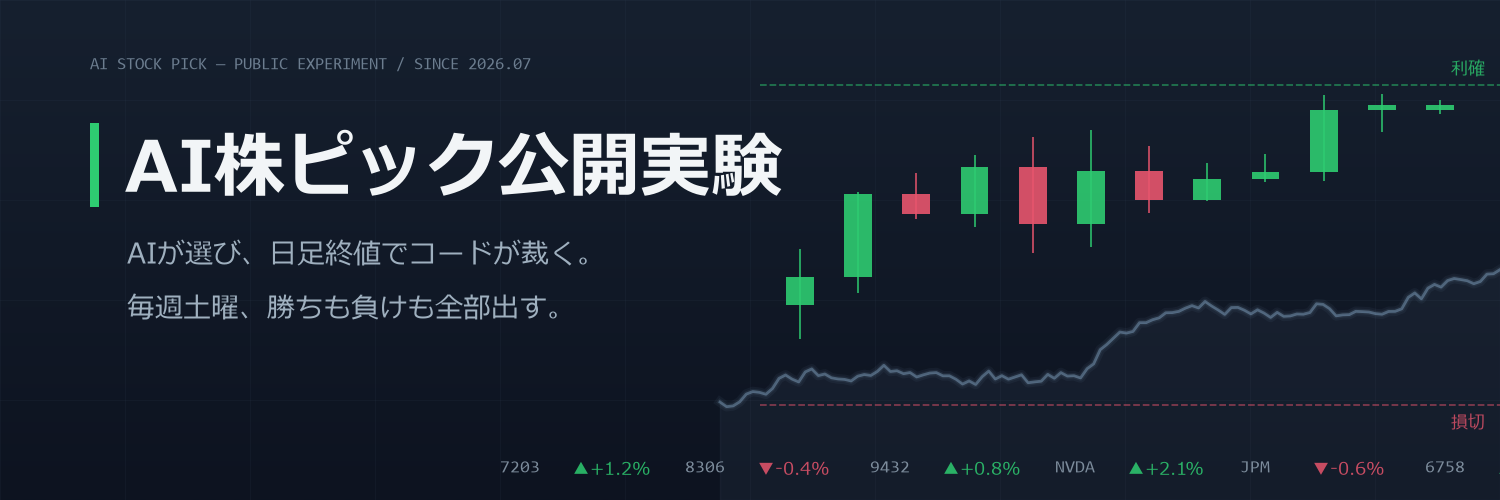
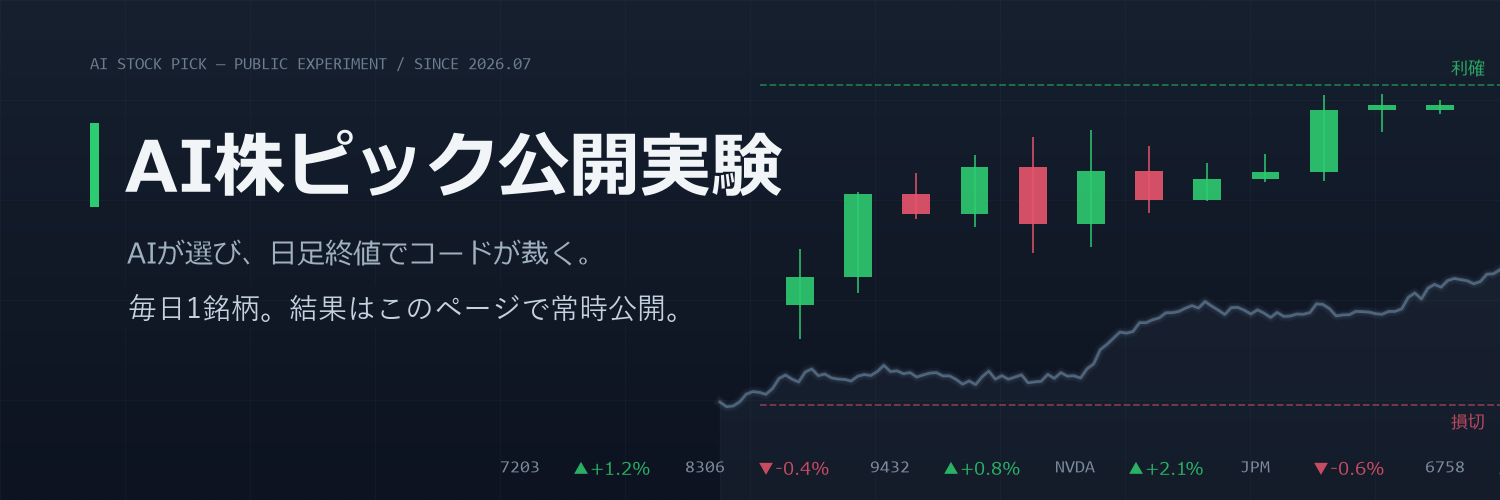
auto update

Changed region(s): [[0.0613, 0.57, 0.46, 0.66]]

diff --git a/index.html b/index.html
@@ -86,13 +86,13 @@ a { color:var(--blue); }
 <div class="wrap">
 <div class="topbar">
   <div class="brand">AI STOCK PICK — PUBLIC EXPERIMENT</div>
-  <div class="updated">最終更新: 2026-07-29 20:16（日本時間）｜picks.csvから自動生成・手作業による編集なし</div>
+  <div class="updated">最終更新: 2026-07-29 21:47（日本時間）｜picks.csvから自動生成・手作業による編集なし</div>
 </div>
 <div class="hero"><img src="hero.png" alt="AI株ピック公開実験"></div>
 
 <section>
   <h2>累計成績</h2>
-  <div class="cards"><div class="card "><div class="num">35</div><div class="lbl">総ピック数</div></div><div class="card win"><div class="num">4</div><div class="lbl">利確</div></div><div class="card lose"><div class="num">2</div><div class="lbl">損切</div></div><div class="card open"><div class="num">14</div><div class="lbl">建玉中</div></div><div class="card "><div class="num">10</div><div class="lbl">監視中</div></div></div><div class="cards big"><div class="card win"><div class="num">67%</div><div class="lbl">勝率（決着分）</div></div><div class="card win"><div class="num">+4.3%</div><div class="lbl">平均損益（決着分）</div></div></div><div class="panel" style="text-align:center;margin-top:12px"><div style="color:var(--sub);font-size:.85rem">総合損益（実現＋含み）</div><div style="font-size:2.6rem;font-weight:bold;color:#2ecc71;line-height:1.25">+207,069円 <span style="font-size:1.4rem">（+3.6%）</span></div><div style="color:var(--sub);font-size:.92rem;margin-top:4px">投資額 5,785,082円 → 評価額 5,992,151円</div><div style="border-top:1px solid var(--line);margin:16px auto;max-width:520px"></div><div style="display:flex;gap:22px;justify-content:center;flex-wrap:wrap"><div style="font-size:.95rem">実現損益（決着6件）：<b style="color:#2ecc71">+46,676円（+2.0%）</b></div><div style="font-size:.95rem">含み損益（建玉14件）：<b style="color:#2ecc71">+160,393円（+4.6%）</b></div></div><div style="color:var(--sub);font-size:.85rem;margin-top:8px">現在の建玉：14件・保有額 3,502,596円 → 評価額 3,662,989円（今この実験を追うのに必要な資金の目安）</div><div style="border-top:1px solid var(--line);margin:16px auto;max-width:520px"></div><div style="color:var(--sub);font-size:.8rem;margin-bottom:6px">市場別</div><div style="display:flex;gap:22px;justify-content:center;flex-wrap:wrap;margin-top:8px"><div style="font-size:.95rem">日本株（11件）： 実現 <b style="color:#2ecc71">+34,400円（+1.6%）</b> ／ 含み <b style="color:#2ecc71">+146,700円（+4.8%）</b><div style="color:var(--sub);font-size:.82rem;margin-top:2px">現在保有 3,080,000円 → 評価額 3,226,700円</div></div><div style="font-size:.95rem">米国株（9件）： 実現 <b style="color:#2ecc71">+12,276円（+12.6%）</b> ／ 含み <b style="color:#2ecc71">+13,693円（+3.2%）</b><div style="color:var(--sub);font-size:.82rem;margin-top:2px">現在保有 422,596円 → 評価額 436,289円</div></div></div><div class="hint" style="margin-top:14px">各銘柄1単元ずつ買った想定（単元株数は銘柄により異なる）・米国株は当日レート(163.7円)で円換算。為替損益は含まない。</div></div>
+  <div class="cards"><div class="card "><div class="num">35</div><div class="lbl">総ピック数</div></div><div class="card win"><div class="num">4</div><div class="lbl">利確</div></div><div class="card lose"><div class="num">2</div><div class="lbl">損切</div></div><div class="card open"><div class="num">14</div><div class="lbl">建玉中</div></div><div class="card "><div class="num">10</div><div class="lbl">監視中</div></div></div><div class="cards big"><div class="card win"><div class="num">67%</div><div class="lbl">勝率（決着分）</div></div><div class="card win"><div class="num">+4.3%</div><div class="lbl">平均損益（決着分）</div></div></div><div class="panel" style="text-align:center;margin-top:12px"><div style="color:var(--sub);font-size:.85rem">総合損益（実現＋含み）</div><div style="font-size:2.6rem;font-weight:bold;color:#2ecc71;line-height:1.25">+207,083円 <span style="font-size:1.4rem">（+3.6%）</span></div><div style="color:var(--sub);font-size:.92rem;margin-top:4px">投資額 5,785,381円 → 評価額 5,992,465円</div><div style="border-top:1px solid var(--line);margin:16px auto;max-width:520px"></div><div style="display:flex;gap:22px;justify-content:center;flex-wrap:wrap"><div style="font-size:.95rem">実現損益（決着6件）：<b style="color:#2ecc71">+46,683円（+2.0%）</b></div><div style="font-size:.95rem">含み損益（建玉14件）：<b style="color:#2ecc71">+160,401円（+4.6%）</b></div></div><div style="color:var(--sub);font-size:.85rem;margin-top:8px">現在の建玉：14件・保有額 3,502,839円 → 評価額 3,663,240円（今この実験を追うのに必要な資金の目安）</div><div style="border-top:1px solid var(--line);margin:16px auto;max-width:520px"></div><div style="color:var(--sub);font-size:.8rem;margin-bottom:6px">市場別</div><div style="display:flex;gap:22px;justify-content:center;flex-wrap:wrap;margin-top:8px"><div style="font-size:.95rem">日本株（11件）： 実現 <b style="color:#2ecc71">+34,400円（+1.6%）</b> ／ 含み <b style="color:#2ecc71">+146,700円（+4.8%）</b><div style="color:var(--sub);font-size:.82rem;margin-top:2px">現在保有 3,080,000円 → 評価額 3,226,700円</div></div><div style="font-size:.95rem">米国株（9件）： 実現 <b style="color:#2ecc71">+12,283円（+12.6%）</b> ／ 含み <b style="color:#2ecc71">+13,701円（+3.2%）</b><div style="color:var(--sub);font-size:.82rem;margin-top:2px">現在保有 422,839円 → 評価額 436,540円</div></div></div><div class="hint" style="margin-top:14px">各銘柄1単元ずつ買った想定（単元株数は銘柄により異なる）・米国株は当日レート(163.8円)で円換算。為替損益は含まない。</div></div>
 </section>
 
 <section><h2>建玉中の含み損益</h2><div class="panel"><svg viewBox="0 0 680 428" width="100%" xmlns="http://www.w3.org/2000/svg" style="max-width:680px"><line x1="447.5" y1="0" x2="447.5" y2="428" stroke="#243244" stroke-width="1"/><text x="6" y="23" fill="#8fa0b0" font-size="12" font-family="Meiryo,sans-serif">三菱地所（8802.T）</text><rect x="447.5" y="11" width="1.0" height="15" rx="4" fill="#2ecc71" opacity="0.9"/><text x="455.5" y="23" fill="#2ecc71" font-size="12.5" font-family="Meiryo,sans-serif" text-anchor="start">+0.0%</text><text x="6" y="53" fill="#8fa0b0" font-size="12" font-family="Meiryo,sans-serif">セコム（9735.T）</text><rect x="447.5" y="41" width="99.4" height="15" rx="4" fill="#2ecc71" opacity="0.9"/><text x="554.9" y="53" fill="#2ecc71" font-size="12.5" font-family="Meiryo,sans-serif" text-anchor="start">+4.9%</text><text x="6" y="83" fill="#8fa0b0" font-size="12" font-family="Meiryo,sans-serif">McDonald&#x27;s（MCD）</text><rect x="447.5" y="71" width="78.0" height="15" rx="4" fill="#2ecc71" opacity="0.9"/><text x="533.5" y="83" fill="#2ecc71" font-size="12.5" font-family="Meiryo,sans-serif" text-anchor="start">+3.8%</text><text x="6" y="113" fill="#8fa0b0" font-size="12" font-family="Meiryo,sans-serif">Costco Wholesale（COST）</text><rect x="447.5" y="101" width="80.5" height="15" rx="4" fill="#2ecc71" opacity="0.9"/><text x="536.0" y="113" fill="#2ecc71" font-size="12.5" font-family="Meiryo,sans-serif" text-anchor="start">+3.9%</text><text x="6" y="143" fill="#8fa0b0" font-size="12" font-family="Meiryo,sans-serif">Cisco Systems（CSCO）</text><rect x="447.5" y="131" width="66.6" height="15" rx="4" fill="#2ecc71" opacity="0.9"/><text x="522.1" y="143" fill="#2ecc71" font-size="12.5" font-family="Meiryo,sans-serif" text-anchor="start">+3.3%</text><text x="6" y="173" fill="#8fa0b0" font-size="12" font-family="Meiryo,sans-serif">Southern Company（SO）</text><rect x="447.5" y="161" width="16.6" height="15" rx="4" fill="#2ecc71" opacity="0.9"/><text x="472.1" y="173" fill="#2ecc71" font-size="12.5" font-family="Meiryo,sans-serif" text-anchor="start">+0.8%</text><text x="6" y="203" fill="#8fa0b0" font-size="12" font-family="Meiryo,sans-serif">Berkshire Hathaway（BRK-B）</text><rect x="447.5" y="191" width="93.5" height="15" rx="4" fill="#2ecc71" opacity="0.9"/><text x="549.0" y="203" fill="#2ecc71" font-size="12.5" font-family="Meiryo,sans-serif" text-anchor="start">+4.6%</text><text x="6" y="233" fill="#8fa0b0" font-size="12" font-family="Meiryo,sans-serif">東京海上ホールディングス（8766.T）</text><rect x="447.5" y="221" width="114.1" height="15" rx="4" fill="#2ecc71" opacity="0.9"/><text x="569.6" y="233" fill="#2ecc71" font-size="12.5" font-family="Meiryo,sans-serif" text-anchor="start">+5.6%</text><text x="6" y="263" fill="#8fa0b0" font-size="12" font-family="Meiryo,sans-serif">武田薬品工業（4502.T）</text><rect x="447.5" y="251" width="117.3" height="15" rx="4" fill="#2ecc71" opacity="0.9"/><text x="572.8" y="263" fill="#2ecc71" font-size="12.5" font-family="Meiryo,sans-serif" text-anchor="start">+5.7%</text><text x="6" y="293" fill="#8fa0b0" font-size="12" font-family="Meiryo,sans-serif">Walmart（WMT）</text><rect x="431.3" y="281" width="16.2" height="15" rx="4" fill="#e8556d" opacity="0.9"/><text x="423.3" y="293" fill="#e8556d" font-size="12.5" font-family="Meiryo,sans-serif" text-anchor="end">-0.8%</text><text x="6" y="323" fill="#8fa0b0" font-size="12" font-family="Meiryo,sans-serif">KDDI（9433.T）</text><rect x="447.5" y="311" width="177.5" height="15" rx="4" fill="#2ecc71" opacity="0.9"/><text x="633.0" y="323" fill="#2ecc71" font-size="12.5" font-family="Meiryo,sans-serif" text-anchor="start">+8.7%</text><text x="6" y="353" fill="#8fa0b0" font-size="12" font-family="Meiryo,sans-serif">三菱UFJフィナンシャル・グループ（8306.T）</text><rect x="447.5" y="341" width="73.9" height="15" rx="4" fill="#2ecc71" opacity="0.9"/><text x="529.4" y="353" fill="#2ecc71" font-size="12.5" font-family="Meiryo,sans-serif" text-anchor="start">+3.6%</text><text x="6" y="383" fill="#8fa0b0" font-size="12" font-family="Meiryo,sans-serif">JPMorgan Chase（JPM）</text><rect x="447.5" y="371" width="162.7" height="15" rx="4" fill="#2ecc71" opacity="0.9"/><text x="618.2" y="383" fill="#2ecc71" font-size="12.5" font-family="Meiryo,sans-serif" text-anchor="start">+7.9%</text><text x="6" y="413" fill="#8fa0b0" font-size="12" font-family="Meiryo,sans-serif">Amazon（AMZN）</text><rect x="321.5" y="401" width="126.0" height="15" rx="4" fill="#e8556d" opacity="0.9"/><text x="313.5" y="413" fill="#e8556d" font-size="12.5" font-family="Meiryo,sans-serif" text-anchor="end">-6.2%</text></svg><div class="hint">現在ポジションを持っている扱いのピックのみ（最新20件・終値ベース）。決着済みは下の月別成績と一覧表へ。</div></div></section>
